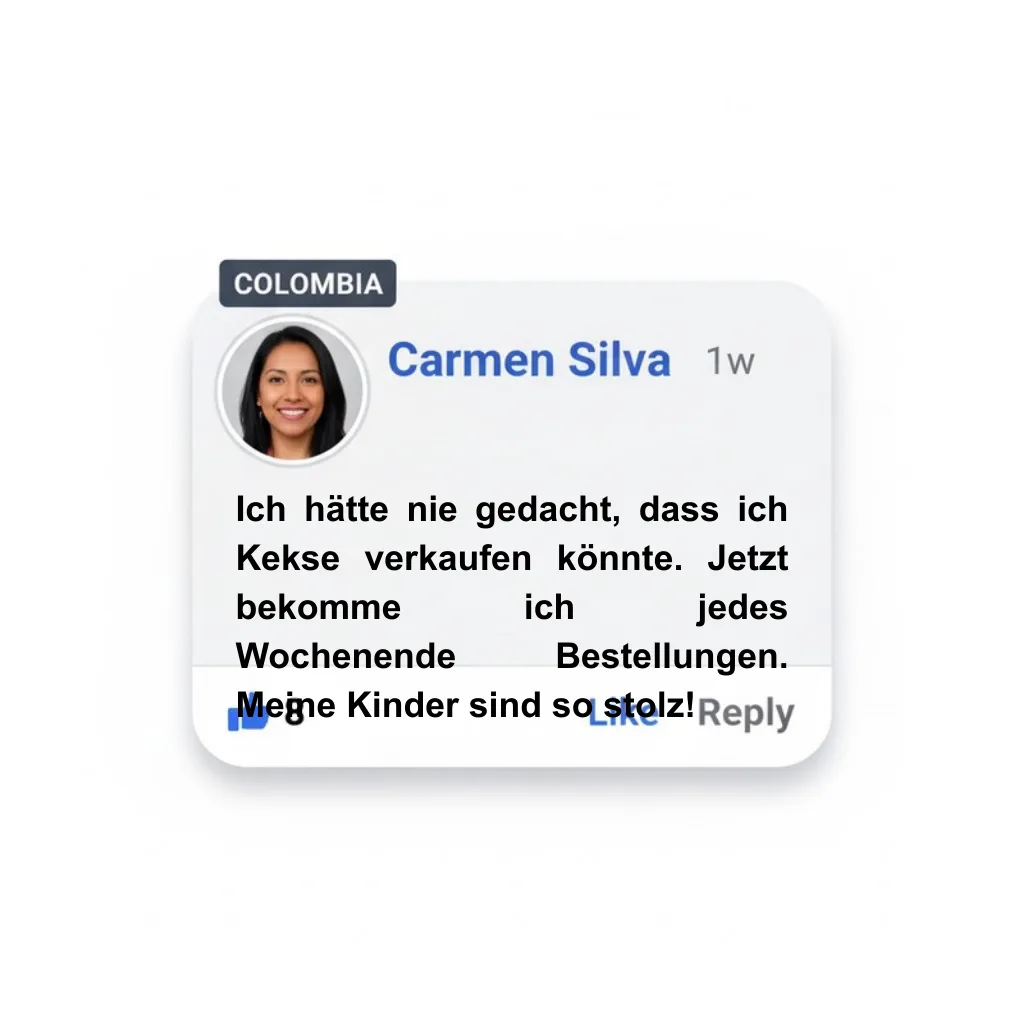
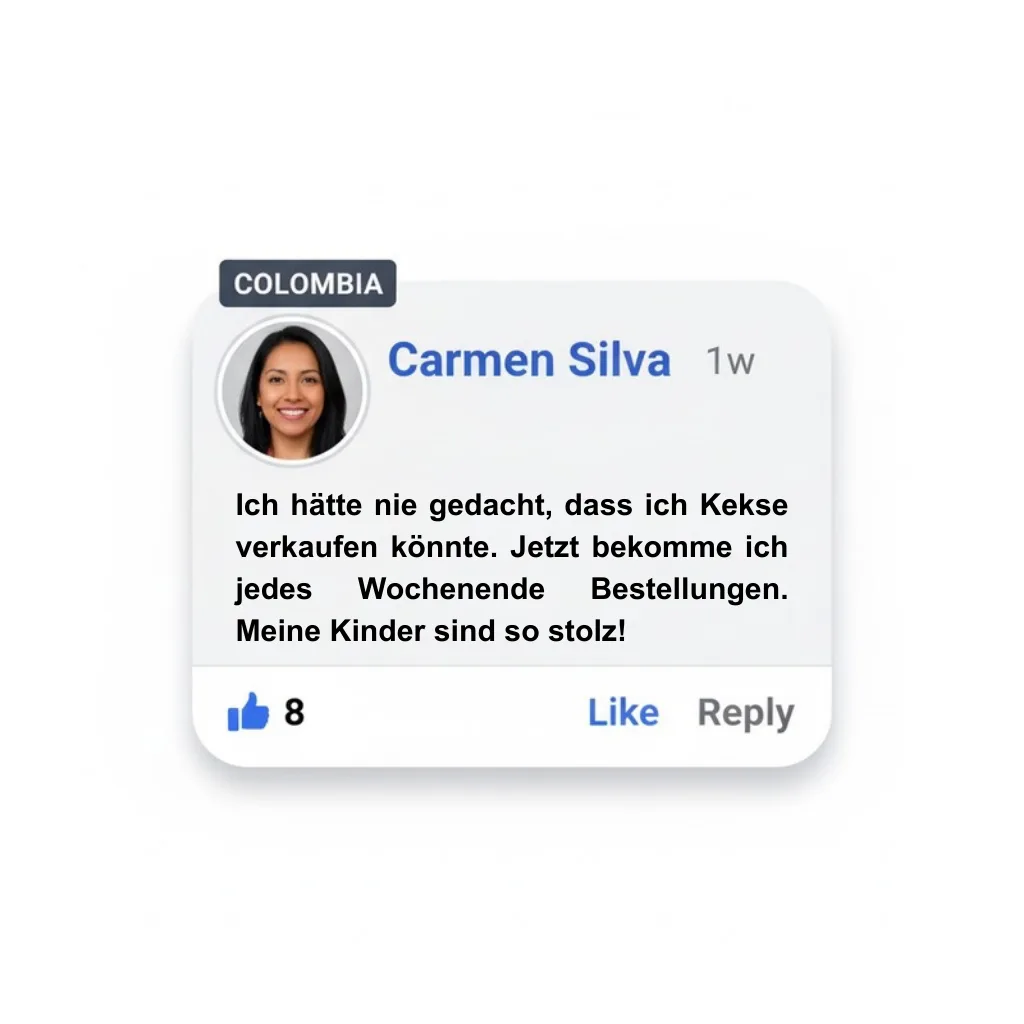
Re-export testimonial cards from updated Canva design + smaller carousel cards
Fresh export of all 72 testimonial card images from the fixed Canva design.
Reduced carousel card widths from 280-360px to 220-300px for better proportions.

Changed region(s): [[0.2188, 0.4688, 0.7812, 0.7188]]

diff --git a/src/components/TestimonialsSection.tsx b/src/components/TestimonialsSection.tsx
@@ -63,7 +63,7 @@ const TestimonialsSection = () => {
           {doubled.map((item, index) => (
             <div
               key={`${item.name}-${index}`}
-              className="flex-shrink-0 w-[280px] sm:w-[320px] md:w-[360px]"
+              className="flex-shrink-0 w-[220px] sm:w-[260px] md:w-[300px]"
             >
               <img
                 src={`/testimonials/${language}/${item.file}`}
